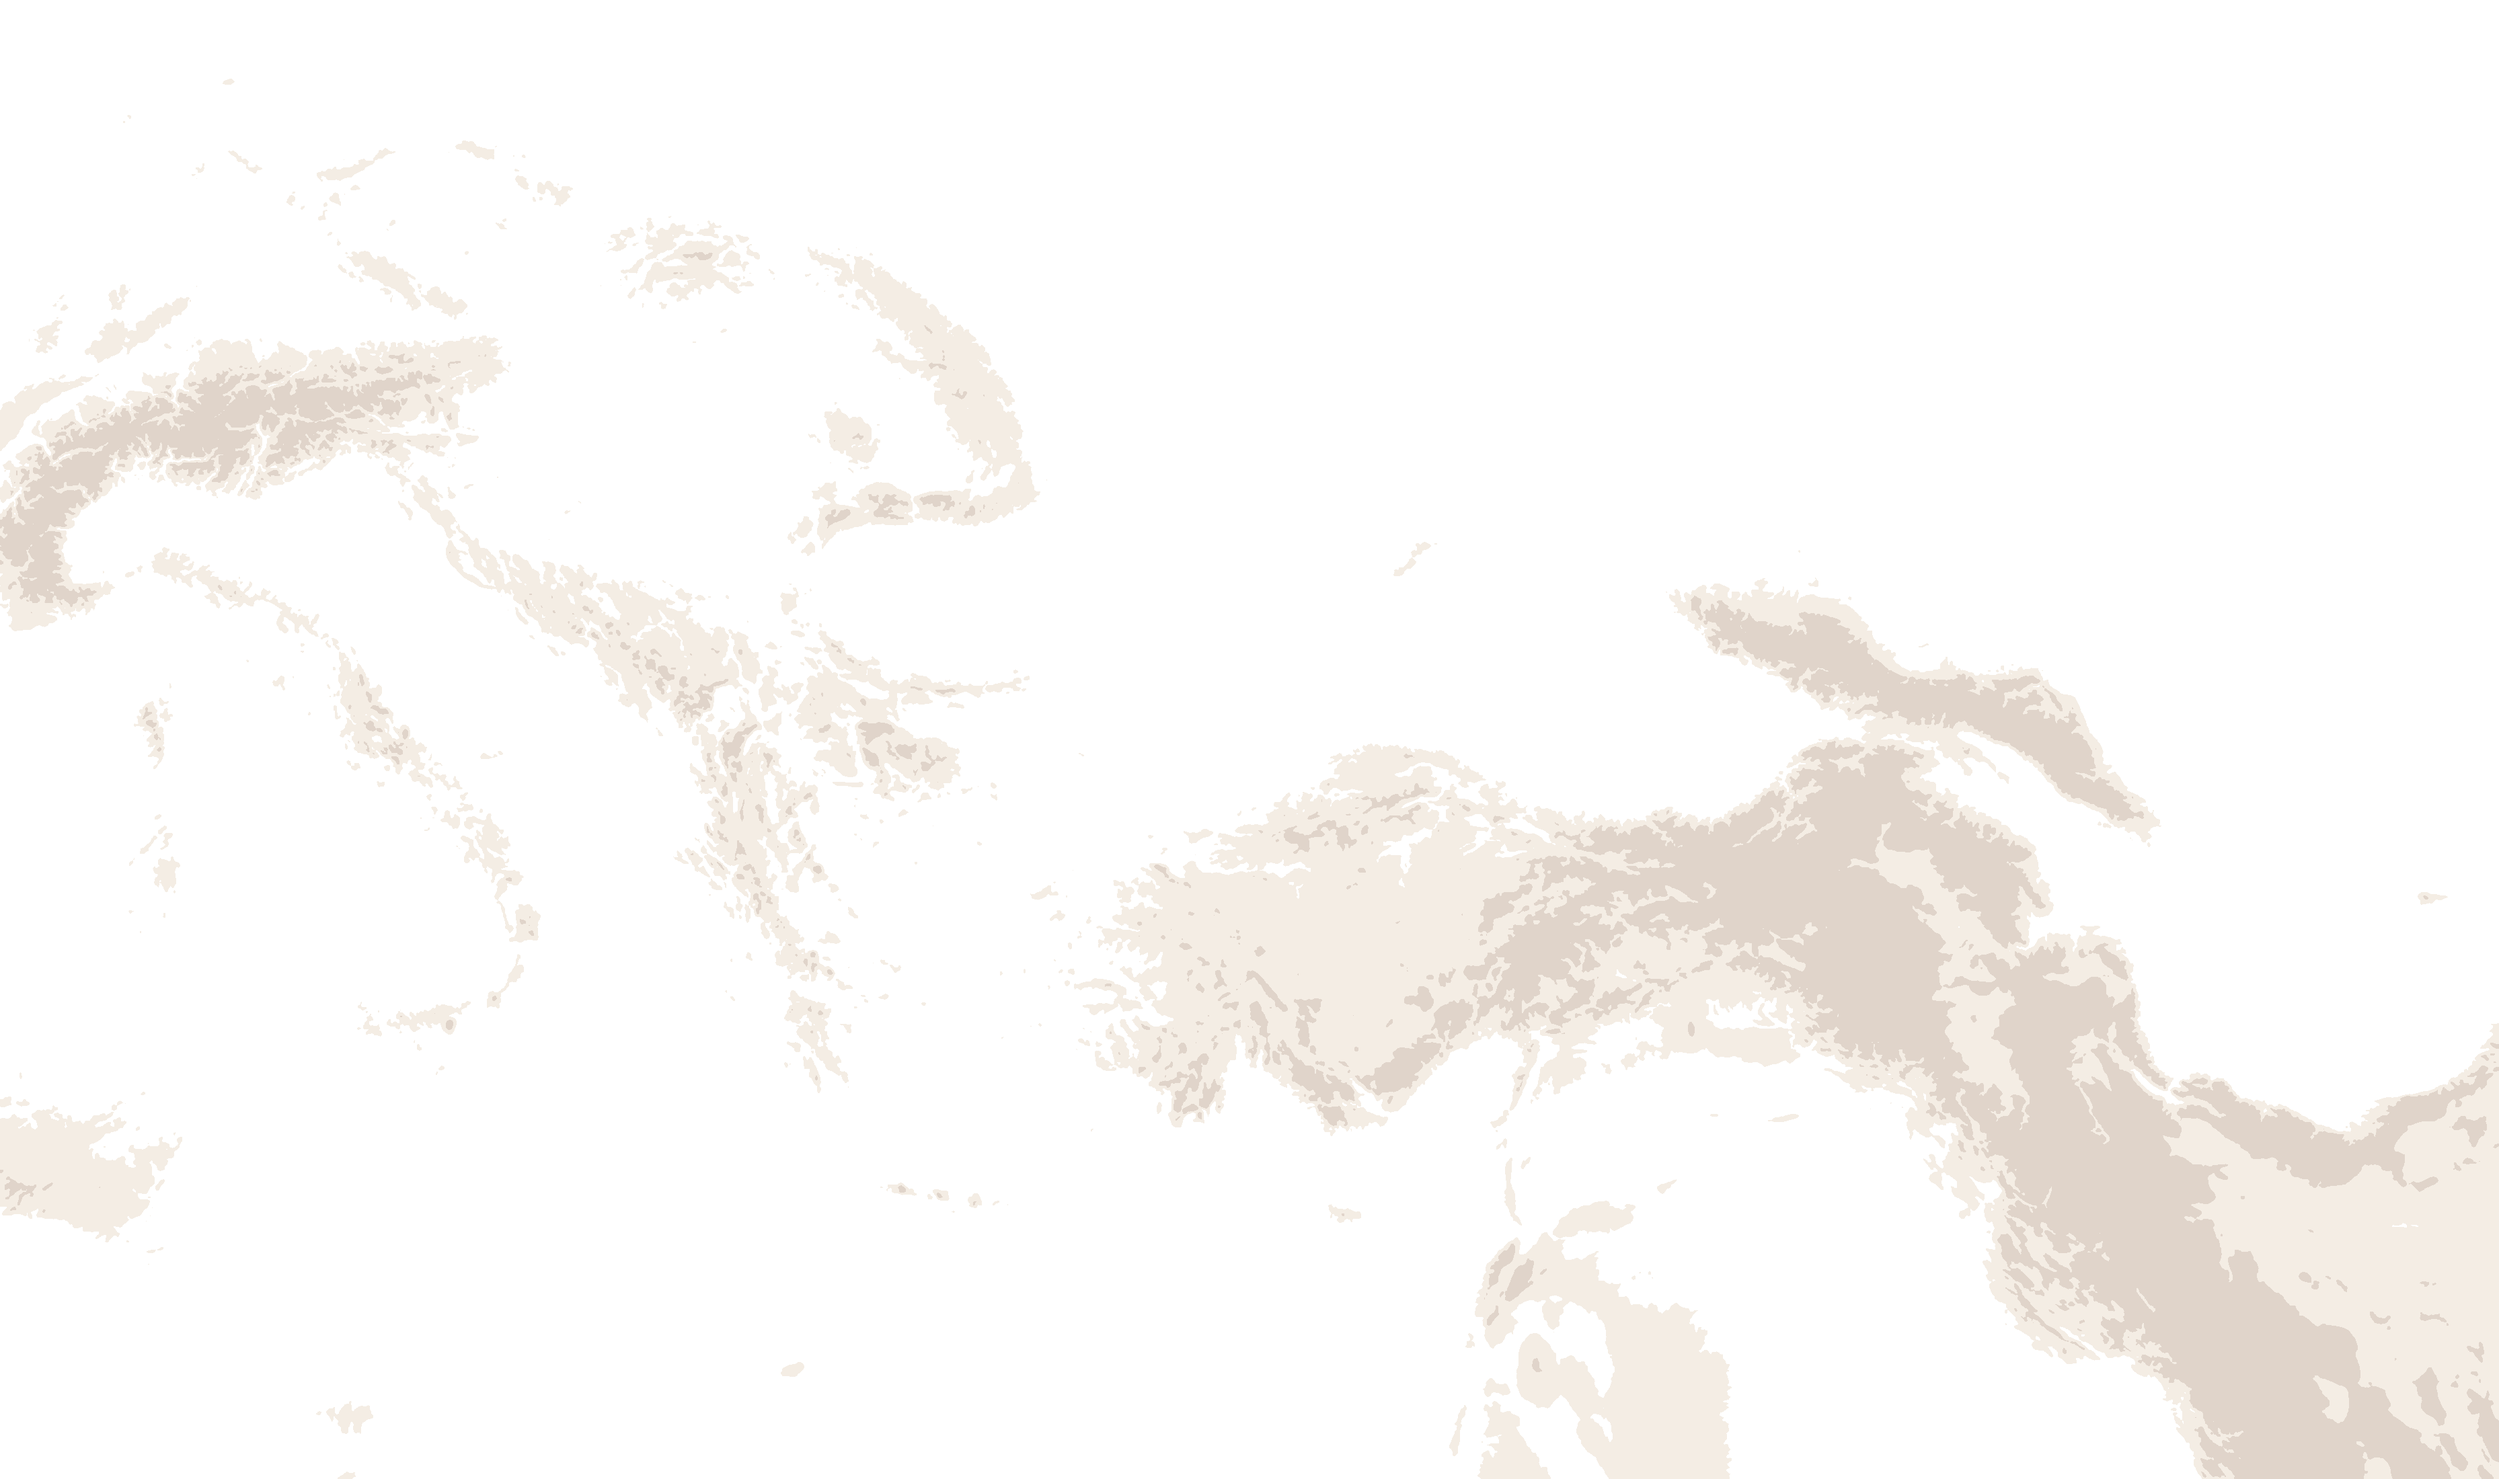
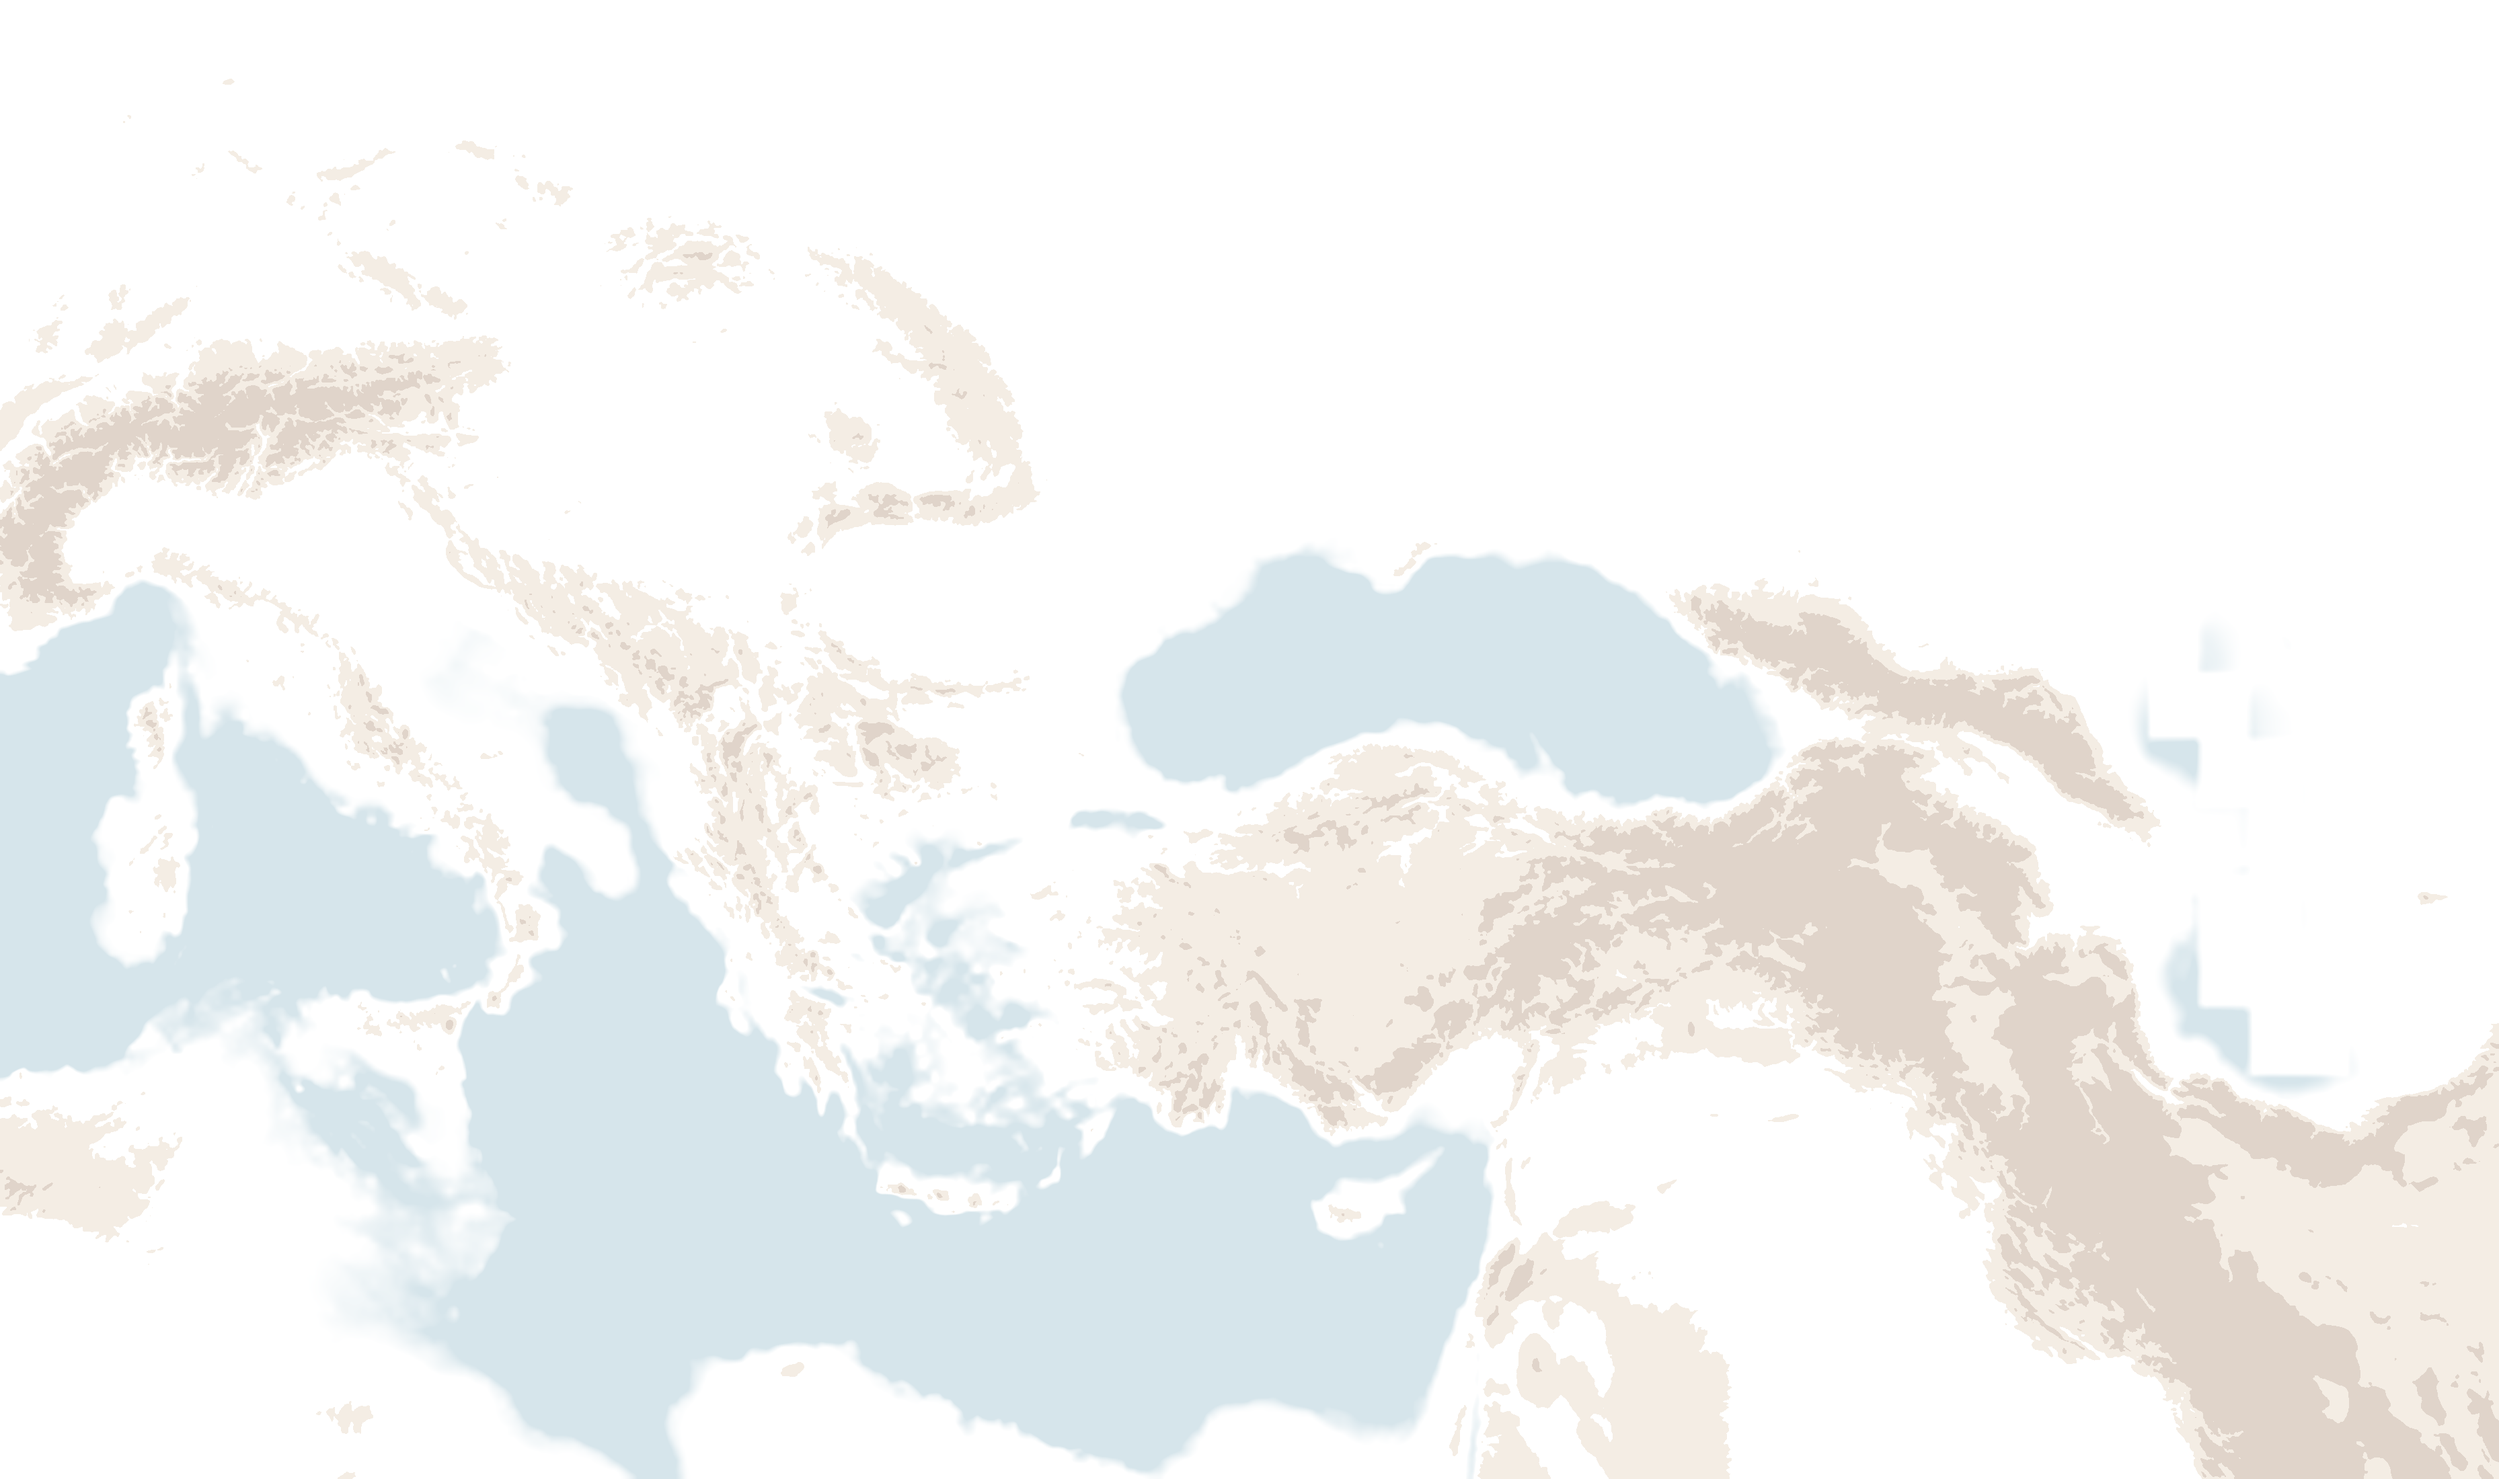
Карта: дълбокото море от истинските дълбочини, с мек преход вместо контур покрай брега

diff --git a/code/map/map.js b/code/map/map.js
@@ -61,10 +61,7 @@ el("ellipse", { cy: 4.2, rx: 1.8, ry: 1.9 }, foot);
 const world = el("g", {}, svg);
 // the sea: a soft watercolour blue, as on old hand-coloured maps
 const SEA = "#bdd2d8";
-// the open sea a shade deeper; a broad band along every coast keeps the shallow colour, like the depth line of an old chart
-const DEEP = "#a7c1ca";
-el("rect", { x: -3000, y: -3000, width: GEO.W + 6000, height: GEO.H + 6000, fill: DEEP }, world);
-el("path", { d: GEO.land, fill: SEA, stroke: SEA, "stroke-width": 70, "stroke-linejoin": "round" }, world);
+el("rect", { x: -3000, y: -3000, width: GEO.W + 6000, height: GEO.H + 6000, fill: SEA }, world);
 const ripple = el("g", { fill: "none", "stroke-linejoin": "round" }, world);
 [[26, .06], [16, .1], [8, .16]].forEach(([w, o]) => el("path", { d: GEO.land, stroke: "#4f7f92", style: `stroke-width:${ink(w)}`, "stroke-opacity": o }, ripple));
 const landPath = el("path", { d: GEO.land, fill: "#f2e6c6" }, world);
@@ -72,7 +69,8 @@ const realmsG = el("g", { "clip-path": "url(#landClip)" }, world);
 // relief: ink mountains, hills, forests and reeds over the whole map, drawn by tools/build-terrain.py; it lies over the
 // border fills, faint and blended like printed ink, so it tints with them and stays a quiet detail of a historical map
 el('image', { href: 'img/terrain.webp', x: 0, y: 0, width: GEO.W, height: GEO.H, preserveAspectRatio: 'none', opacity: .6, style: 'mix-blend-mode:multiply', 'pointer-events': 'none' }, world);
-// height tint: the ground above 700 m and above 1500 m in two soft brown steps, drawn by tools/build-elevation.py
+// height tint: the ground above 700 m and above 1500 m in two soft brown steps and the deep sea a shade darker, drawn by
+// tools/build-elevation.py
 el('image', { href: 'img/elevation.webp', x: 0, y: 0, width: GEO.W, height: GEO.H, preserveAspectRatio: 'none', style: 'mix-blend-mode:multiply', 'pointer-events': 'none' }, world);
 el("path", { d: GEO.lakes, fill: SEA, stroke: "#6f8f86", style: `stroke-width:${ink(.8)}` }, world);
 el("path", { d: GEO.rivers, fill: "none", stroke: "#5c8fa3", style: `stroke-width:${ink(1.5)}`, "stroke-opacity": .85, "stroke-linecap": "round", "stroke-linejoin": "round" }, world);

diff --git a/tools/build-elevation.py b/tools/build-elevation.py
@@ -1,6 +1,7 @@
 # Draws the map's height tint, img/elevation.webp: two soft brown steps, the ground above 700 m and the ground above 1500 m,
-# with no outlines, in one transparent image in the map's units. js/map.js lays it over the relief symbols, blended like ink,
-# so a kid sees where the mountains rise without reading a legend.
+# with no outlines, and the open sea a shade deeper blue, fading in from about 100 m down to 600 m below the surface; one
+# transparent image in the map's units. js/map.js lays it over the relief symbols, blended like ink, so a kid sees where the
+# mountains rise and where the sea gets deep without reading a legend.
 # The heights are the same Terrain Tiles as tools/build-terrain.py's (credited in CREDITS.md) and come from its helpers.
 # Needs Python 3 with Pillow, numpy and scipy (see README). Run from tools/: npm run elevation
 import importlib.util
@@ -17,6 +18,9 @@ spec.loader.exec_module(terrain)
 OUT = os.path.join(terrain.ROOT, 'img/elevation.webp')
 STEPS = [(700, (176, 122, 60, 35)), (1500, (122, 74, 30, 60))]  # metres and the colour above them, the higher one on top
 CALM = 3  # the heights are smoothed over this many map units, so the steps are calm shapes, not pixel noise
+DEEP = (200, 220, 228)  # the deep sea's tint; multiplied into the map's sea blue it darkens it
+DEEP_FROM, DEEP_TO, DEEP_ALPHA = 100, 600, 190  # metres below the surface where the tint starts and is full, and its full alpha
+SEA_CALM = 8  # the sea floor is smoothed wider, so the deep water has a soft edge
 
 
 def main():
@@ -30,13 +34,17 @@ def main():
     _, ty = terrain.tile_xy(lon[0], lat)
     gi = np.clip(((ty - ty0) * 256).astype(int), 0, grid.shape[0] - 1)
     gj = np.clip(((tx - tx0) * 256).astype(int), 0, grid.shape[1] - 1)
-    elev = Image.fromarray(grid[gi[:, None], gj[None, :]].astype(np.float32), 'F')
-    elev = np.asarray(elev.resize((W // CALM, H // CALM), Image.BILINEAR).resize((W, H), Image.BICUBIC))
+    raw = Image.fromarray(grid[gi[:, None], gj[None, :]].astype(np.float32), 'F')
+    elev = np.asarray(raw.resize((W // CALM, H // CALM), Image.BILINEAR).resize((W, H), Image.BICUBIC))
+    floor = np.asarray(raw.resize((W // SEA_CALM, H // SEA_CALM), Image.BILINEAR).resize((W, H), Image.BICUBIC))
     out = np.zeros((H, W, 4), np.uint8)
+    deep = (np.clip((-floor - DEEP_FROM) / (DEEP_TO - DEEP_FROM), 0, 1) * DEEP_ALPHA).astype(np.uint8)
+    out[..., :3] = DEEP
+    out[..., 3] = deep
     for metres, colour in STEPS:
         out[elev > metres] = colour
     Image.fromarray(out, 'RGBA').save(OUT, 'WEBP', lossless=True, quality=100, method=6)
-    shares = ', '.join(f'{(elev > m).mean():.1%} above {m} m' for m, _ in STEPS)
+    shares = ', '.join([f'{(elev > m).mean():.1%} above {m} m' for m, _ in STEPS] + [f'{(deep > 0).mean():.1%} deep sea'])
     print(f'{shares} -> {os.path.relpath(OUT, terrain.ROOT)}')
 
 
